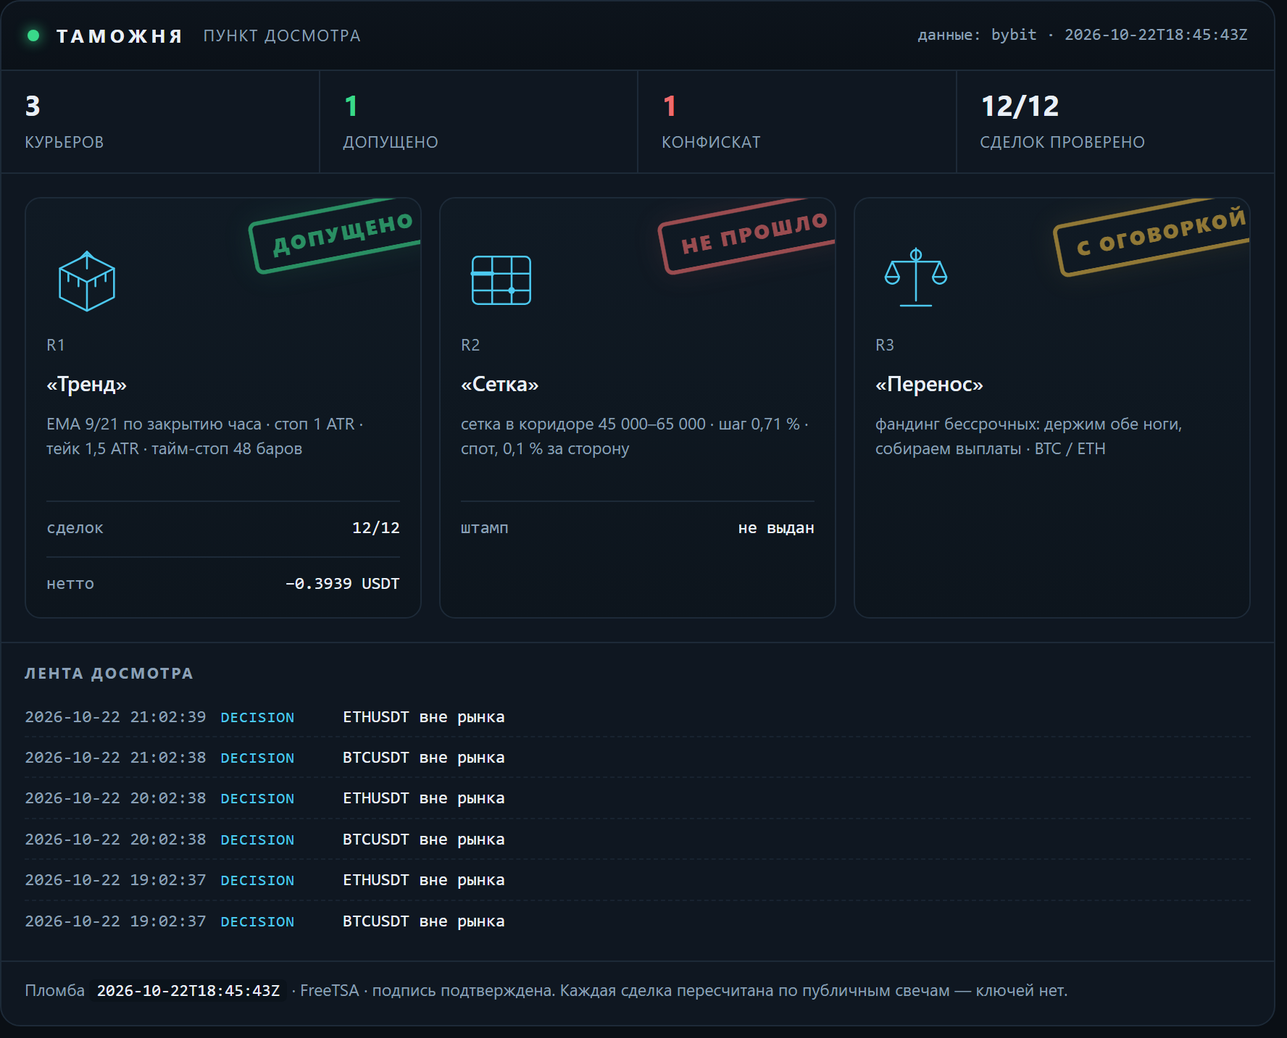
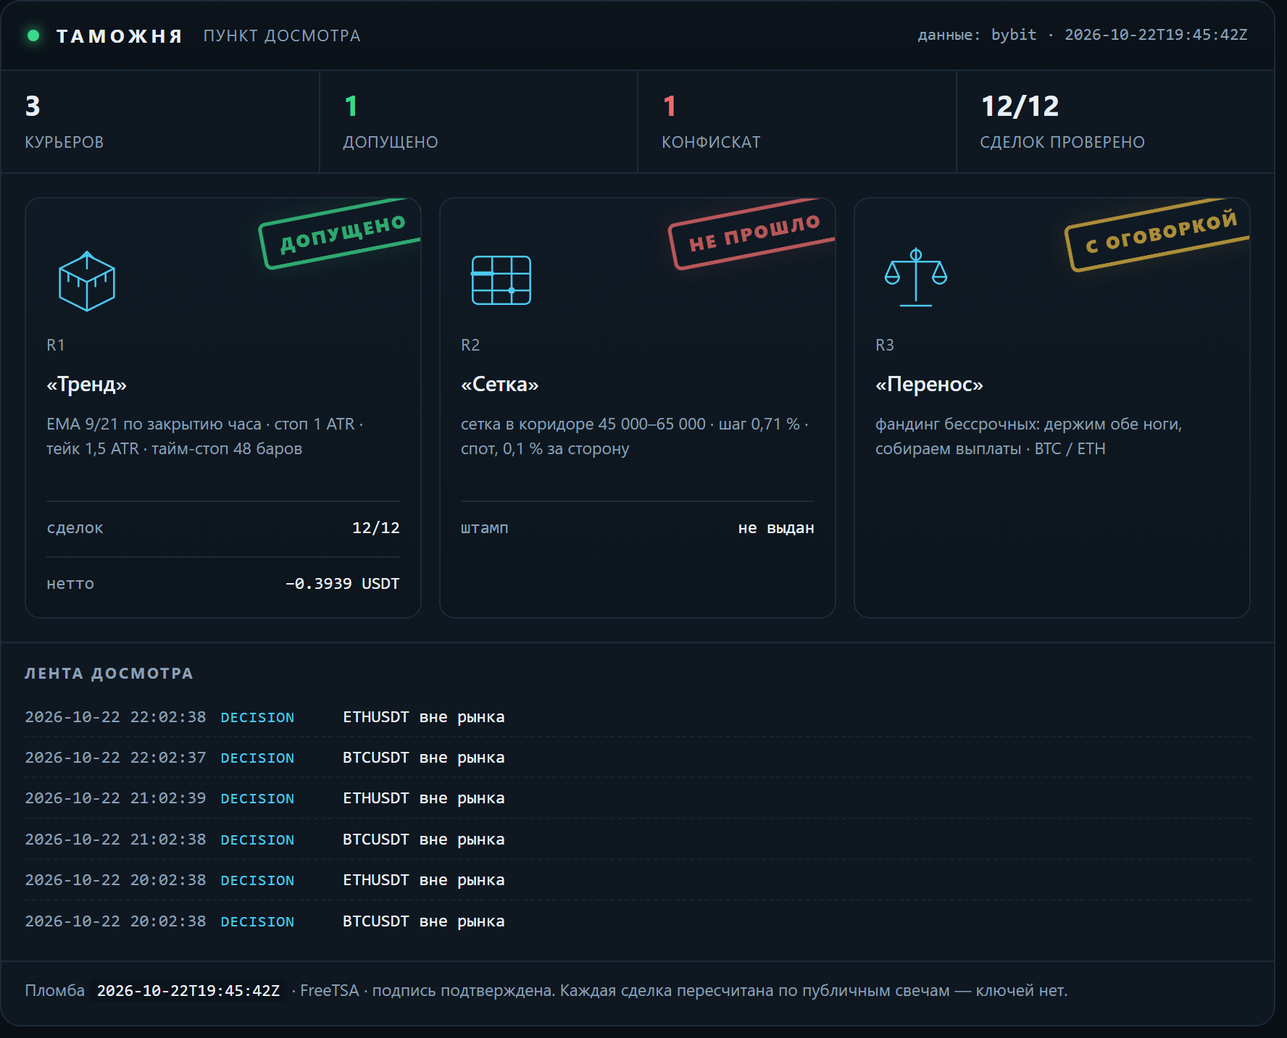
lab: таможня — свежие числа досмотра

Changed region(s): [[0.8052, 0.1842, 0.96, 0.2763], [0.4955, 0.1842, 0.6503, 0.2763], [0.1858, 0.1842, 0.3407, 0.2763]]

diff --git a/docs/customs.html b/docs/customs.html
@@ -16,7 +16,7 @@
   <h1><a href="index.html">Gramwright Lab</a></h1>
   <p>Журнал проверки торговых гипотез: что проверяли, что вышло по факту, сколько съели издержки. Числа берутся из журнала стенда. Не инвестиционная рекомендация.</p>
 </header>
-<h1>Таможня</h1><p class="intro">Пункт досмотра заявленных результатов. Стратегии приезжают с грузом обещаний, и каждая проходит проверку по публичным данным биржи: цены существуют, комиссии по тарифу, нетто сходится. Что прошло — получает штамп. Что не прошло — в конфискат, с причиной. Штамп означает «записи подлинные», а не «стратегия прибыльна».</p><p><img src="img/customs.png" alt="Терминал досмотра: три курьера, штампы, лента событий" style="width:100%;height:auto;border:1px solid var(--line);border-radius:10px"></p><p class="c-note">Сверху — тот же терминал, что собирается из журналов: счётчики, эмблемы курьеров, штампы и лента последних событий. Ниже — то же самое текстом, чтобы читалось с телефона и индексировалось поиском.</p><article><h2>R1 «Тренд» <span class="verdict">— <span class="c-ok">допущено</span></span></h2><p><strong>Правило:</strong> EMA 9/21 по закрытию часа · стоп 1 ATR · тейк 1,5 ATR · тайм-стоп 48 баров</p><p><strong>Декларация:</strong> Заявлено до прогона: держать 30 сделок, лимит нотионала 10 % от счёта, стоп дня −1 %. Прибыль не заявлялась — это важно: курьер не обещал доход.</p><p><strong>Проверено по публичным свечам, без ключей:</strong> 12 из 12 сделок. Сумма нетто −0.3939 USDT.</p><ul class="c-chk"><li class="y">BTCUSDT: нетто −0.8746 USDT · комиссии 0.0901 · проверено · с поправкой</li><li class="y">BTCUSDT: нетто −0.5441 USDT · комиссии 0.0896 · проверено</li><li class="y">ETHUSDT: нетто −0.2253 USDT · комиссии 0.0266 · проверено</li><li class="y">ETHUSDT: нетто −0.1513 USDT · комиссии 0.0265 · проверено</li><li class="y">ETHUSDT: нетто +0.1984 USDT · комиссии 0.0262 · проверено</li><li class="y">ETHUSDT: нетто +0.1617 USDT · комиссии 0.0260 · проверено</li><li class="y">ETHUSDT: нетто +0.2645 USDT · комиссии 0.0263 · проверено</li><li class="y">BTCUSDT: нетто +0.6246 USDT · комиссии 0.0897 · проверено</li><li class="y">BTCUSDT: нетто −0.5881 USDT · комиссии 0.0910 · проверено</li><li class="y">ETHUSDT: нетто −0.2403 USDT · комиссии 0.0270 · проверено</li><li class="y">BTCUSDT: нетто +0.6908 USDT · комиссии 0.0908 · проверено</li><li class="y">ETHUSDT: нетто +0.2898 USDT · комиссии 0.0267 · проверено</li></ul><p class="tags">журнал sha256 aa75ab9662c8ad2a… · проверяльщик verify-1</p><p class="c-note">Штамп означает: записи подлинные, а не что стратегия прибыльна. Курьер в минусе, и минус тоже стоит на штампе — иначе это была бы не проверка, а реклама.</p><p class="tags">источник: verify-report.json</p></article><article><h2>R2 «Сетка» <span class="verdict">— <span class="c-bad">не прошло</span></span></h2><p><strong>Правило:</strong> сетка в коридоре 45 000–65 000 · шаг 0,71 % · спот, 0,1 % за сторону</p><p><strong>Декларация:</strong> Заявлено: «44 % урожая уходит бирже в виде комиссий». Кроме того — перевес над простым владением монетой.</p><p><strong>Что сошлось:</strong></p><ul class="c-chk"><li class="y">сами числа пересчитаны и воспроизводятся: коридор 45–65k был активен 23 % всей истории и 28 % последних двух лет</li></ul><p><strong>Что не сошлось:</strong></p><ul class="c-chk"><li class="n">44 % не подтвердилось: при шаге 0,71 % и тарифе 0,1 % комиссия съедает 28,3 % шага. Чтобы получить 44 %, нужен шаг 0,45 % — это около 80 уровней, а не 50</li><li class="n">от урожая доля комиссий 85,5 % за всю историю и 49,6 % за последние два года — тоже не 44 %</li><li class="n">перевес над владением посчитан на тарифе 0,055 %: при нём +1,32 п. п., на розничном 0,1 % — −0,72 п. п. То есть перевес исчезает</li><li class="n">семилетний тест стартовал в сентябре 2019 при биткоине около 10 000 — ниже коридора. Он говорит, что фиксированный коридор не подходит для периода, а не что сетка отстаёт</li></ul><p class="tags">источник: lab_grid.py, пересчёт 17.10.2026</p></article><article><h2>R3 «Перенос» <span class="verdict">— <span class="c-warn">с оговоркой</span></span></h2><p><strong>Правило:</strong> фандинг бессрочных: держим обе ноги, собираем выплаты · BTC / ETH</p><p><strong>Декларация:</strong> Заявлено: около 11,9 % в год от выплат фандинга при просадке выплатной кривой меньше 2 %.</p><p><strong>Что сошлось:</strong></p><ul class="c-chk"><li class="y">выплаты взяты из публичной истории биржи, ключей не нужно: BTC — 7 190 выплат с 25.03.2020, ETH — 6 561 с 21.10.2020</li><li class="y">сумма сходится: +83,4 % и +83,2 % за 6,6 и 6,0 года — те самые ~11,9 % в год</li><li class="y">худшая просадка выплатной кривой: −1,65 % и −1,97 %</li></ul><p><strong>Что не сошлось:</strong></p><ul class="c-chk"><li class="n">оговорка 1: премию сжали — 2021 год дал +38,3 %, 2026 — +1,96 %. Прошлое не повторяется</li><li class="n">оговорка 2: вход-выход стоит около 0,31 %, капитала нужно 1,2 от нотионала, текущий базис −0,082 % против входа</li><li class="n">оговорка 3: риск площадки. История FTX в этой же таблице выглядела так же прилично</li></ul><p class="tags">источник: публичная история фандинга Bybit, замер 17.10.2026</p></article><div class="c-conf"><h3>Конфискат</h3><p><strong>«Сетка»: заявленные 44 % комиссий не подтвердились.</strong> Досмотр показал 28,3 % от шага и 85,5 % от урожая — цифра хуже заявленной по форме, но лучше по смыслу: сетку убивает не размер шага, а то, что урожай почти весь уходит в комиссии. Это и вышло в выпуск — с поправкой, а не с красивой цифрой.</p></div><p class="c-note">Пломба: <code>2026-10-22T18:45:43Z</code> · нотариус FreeTSA · Oct 22 18:45:42 2026 GMT · подпись подтверждена. Манифест скрепляет отчёт проверки, журнал сделок и декларации курьеров: подменишь любую цифру — пломба перестанет сходиться.</p><p class="c-note">Досмотр идёт по публичным минутным свечам и публичной истории фандинга — ключей у проверяющего нет, и он может повторить проверку сам.</p><p class="c-note">Контент образовательный, не является инвестиционной рекомендацией. Торговля связана с риском потери капитала.</p>
+<h1>Таможня</h1><p class="intro">Пункт досмотра заявленных результатов. Стратегии приезжают с грузом обещаний, и каждая проходит проверку по публичным данным биржи: цены существуют, комиссии по тарифу, нетто сходится. Что прошло — получает штамп. Что не прошло — в конфискат, с причиной. Штамп означает «записи подлинные», а не «стратегия прибыльна».</p><p><img src="img/customs.png" alt="Терминал досмотра: три курьера, штампы, лента событий" style="width:100%;height:auto;border:1px solid var(--line);border-radius:10px"></p><p class="c-note">Сверху — тот же терминал, что собирается из журналов: счётчики, эмблемы курьеров, штампы и лента последних событий. Ниже — то же самое текстом, чтобы читалось с телефона и индексировалось поиском.</p><article><h2>R1 «Тренд» <span class="verdict">— <span class="c-ok">допущено</span></span></h2><p><strong>Правило:</strong> EMA 9/21 по закрытию часа · стоп 1 ATR · тейк 1,5 ATR · тайм-стоп 48 баров</p><p><strong>Декларация:</strong> Заявлено до прогона: держать 30 сделок, лимит нотионала 10 % от счёта, стоп дня −1 %. Прибыль не заявлялась — это важно: курьер не обещал доход.</p><p><strong>Проверено по публичным свечам, без ключей:</strong> 12 из 12 сделок. Сумма нетто −0.3939 USDT.</p><ul class="c-chk"><li class="y">BTCUSDT: нетто −0.8746 USDT · комиссии 0.0901 · проверено · с поправкой</li><li class="y">BTCUSDT: нетто −0.5441 USDT · комиссии 0.0896 · проверено</li><li class="y">ETHUSDT: нетто −0.2253 USDT · комиссии 0.0266 · проверено</li><li class="y">ETHUSDT: нетто −0.1513 USDT · комиссии 0.0265 · проверено</li><li class="y">ETHUSDT: нетто +0.1984 USDT · комиссии 0.0262 · проверено</li><li class="y">ETHUSDT: нетто +0.1617 USDT · комиссии 0.0260 · проверено</li><li class="y">ETHUSDT: нетто +0.2645 USDT · комиссии 0.0263 · проверено</li><li class="y">BTCUSDT: нетто +0.6246 USDT · комиссии 0.0897 · проверено</li><li class="y">BTCUSDT: нетто −0.5881 USDT · комиссии 0.0910 · проверено</li><li class="y">ETHUSDT: нетто −0.2403 USDT · комиссии 0.0270 · проверено</li><li class="y">BTCUSDT: нетто +0.6908 USDT · комиссии 0.0908 · проверено</li><li class="y">ETHUSDT: нетто +0.2898 USDT · комиссии 0.0267 · проверено</li></ul><p class="tags">журнал sha256 085ad4c4a9e7161d… · проверяльщик verify-1</p><p class="c-note">Штамп означает: записи подлинные, а не что стратегия прибыльна. Курьер в минусе, и минус тоже стоит на штампе — иначе это была бы не проверка, а реклама.</p><p class="tags">источник: verify-report.json</p></article><article><h2>R2 «Сетка» <span class="verdict">— <span class="c-bad">не прошло</span></span></h2><p><strong>Правило:</strong> сетка в коридоре 45 000–65 000 · шаг 0,71 % · спот, 0,1 % за сторону</p><p><strong>Декларация:</strong> Заявлено: «44 % урожая уходит бирже в виде комиссий». Кроме того — перевес над простым владением монетой.</p><p><strong>Что сошлось:</strong></p><ul class="c-chk"><li class="y">сами числа пересчитаны и воспроизводятся: коридор 45–65k был активен 23 % всей истории и 28 % последних двух лет</li></ul><p><strong>Что не сошлось:</strong></p><ul class="c-chk"><li class="n">44 % не подтвердилось: при шаге 0,71 % и тарифе 0,1 % комиссия съедает 28,3 % шага. Чтобы получить 44 %, нужен шаг 0,45 % — это около 80 уровней, а не 50</li><li class="n">от урожая доля комиссий 85,5 % за всю историю и 49,6 % за последние два года — тоже не 44 %</li><li class="n">перевес над владением посчитан на тарифе 0,055 %: при нём +1,32 п. п., на розничном 0,1 % — −0,72 п. п. То есть перевес исчезает</li><li class="n">семилетний тест стартовал в сентябре 2019 при биткоине около 10 000 — ниже коридора. Он говорит, что фиксированный коридор не подходит для периода, а не что сетка отстаёт</li></ul><p class="tags">источник: lab_grid.py, пересчёт 17.10.2026</p></article><article><h2>R3 «Перенос» <span class="verdict">— <span class="c-warn">с оговоркой</span></span></h2><p><strong>Правило:</strong> фандинг бессрочных: держим обе ноги, собираем выплаты · BTC / ETH</p><p><strong>Декларация:</strong> Заявлено: около 11,9 % в год от выплат фандинга при просадке выплатной кривой меньше 2 %.</p><p><strong>Что сошлось:</strong></p><ul class="c-chk"><li class="y">выплаты взяты из публичной истории биржи, ключей не нужно: BTC — 7 190 выплат с 25.03.2020, ETH — 6 561 с 21.10.2020</li><li class="y">сумма сходится: +83,4 % и +83,2 % за 6,6 и 6,0 года — те самые ~11,9 % в год</li><li class="y">худшая просадка выплатной кривой: −1,65 % и −1,97 %</li></ul><p><strong>Что не сошлось:</strong></p><ul class="c-chk"><li class="n">оговорка 1: премию сжали — 2021 год дал +38,3 %, 2026 — +1,96 %. Прошлое не повторяется</li><li class="n">оговорка 2: вход-выход стоит около 0,31 %, капитала нужно 1,2 от нотионала, текущий базис −0,082 % против входа</li><li class="n">оговорка 3: риск площадки. История FTX в этой же таблице выглядела так же прилично</li></ul><p class="tags">источник: публичная история фандинга Bybit, замер 17.10.2026</p></article><div class="c-conf"><h3>Конфискат</h3><p><strong>«Сетка»: заявленные 44 % комиссий не подтвердились.</strong> Досмотр показал 28,3 % от шага и 85,5 % от урожая — цифра хуже заявленной по форме, но лучше по смыслу: сетку убивает не размер шага, а то, что урожай почти весь уходит в комиссии. Это и вышло в выпуск — с поправкой, а не с красивой цифрой.</p></div><p class="c-note">Пломба: <code>2026-10-22T19:45:42Z</code> · нотариус FreeTSA · Oct 22 19:45:42 2026 GMT · подпись подтверждена. Манифест скрепляет отчёт проверки, журнал сделок и декларации курьеров: подменишь любую цифру — пломба перестанет сходиться.</p><p class="c-note">Досмотр идёт по публичным минутным свечам и публичной истории фандинга — ключей у проверяющего нет, и он может повторить проверку сам.</p><p class="c-note">Контент образовательный, не является инвестиционной рекомендацией. Торговля связана с риском потери капитала.</p>
 <footer class="site">
   Код стенда и аудитора: <a href="https://github.com/XSlaidx/truth-engine">XSlaidx/truth-engine</a>
   &middot; <a href="graveyard.html">кладбище правил</a>
